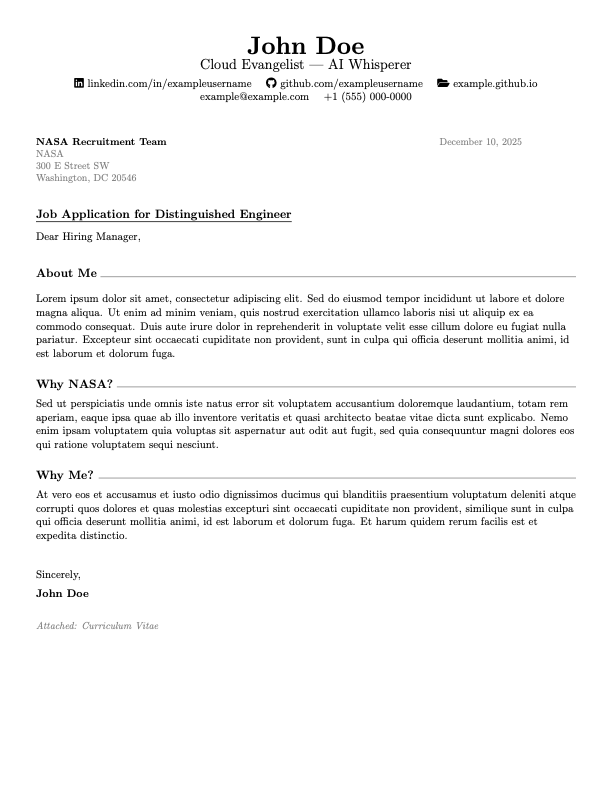
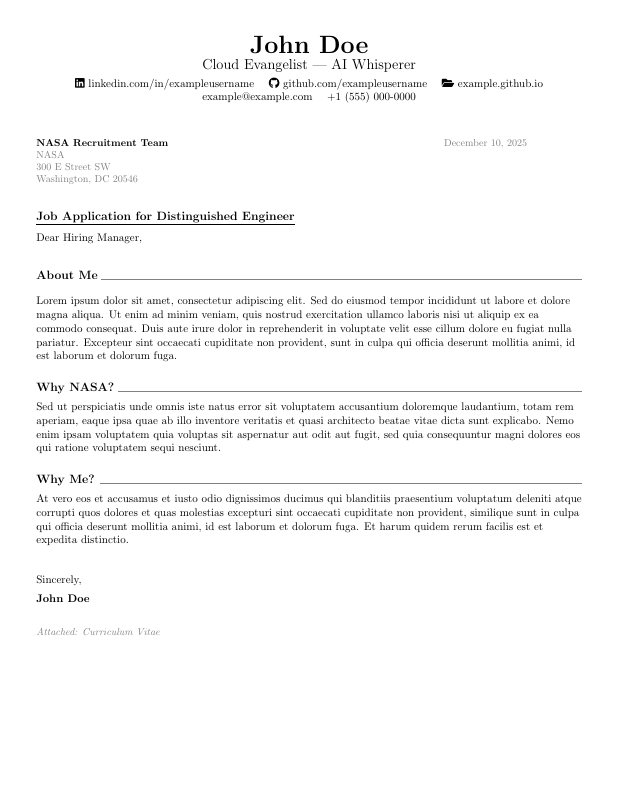
Add example PDF previews and fix image dimensions
- Convert example PDFs to PNG images for GitHub display
- Fix image dimensions to maintain letter size aspect ratio (619x800)
- Display CV and cover letter examples side by side in README
- Update .gitignore to allow PNG files in examples folder

diff --git a/README.md b/README.md
@@ -19,11 +19,24 @@ A clean, modern LaTeX template for CV and cover letter. ATS-friendly and easy to
 
 ## Examples
 
+<table>
+<tr>
+<td width="50%">
+
 ![Example CV](examples/example_cv.png)
+
 [View PDF](examples/example_cv.pdf)
 
+</td>
+<td width="50%">
+
 ![Example Cover Letter](examples/example_cover_letter.png)
+
 [View PDF](examples/example_cover_letter.pdf)
+
+</td>
+</tr>
+</table>
 
 ## Quick Start
 
